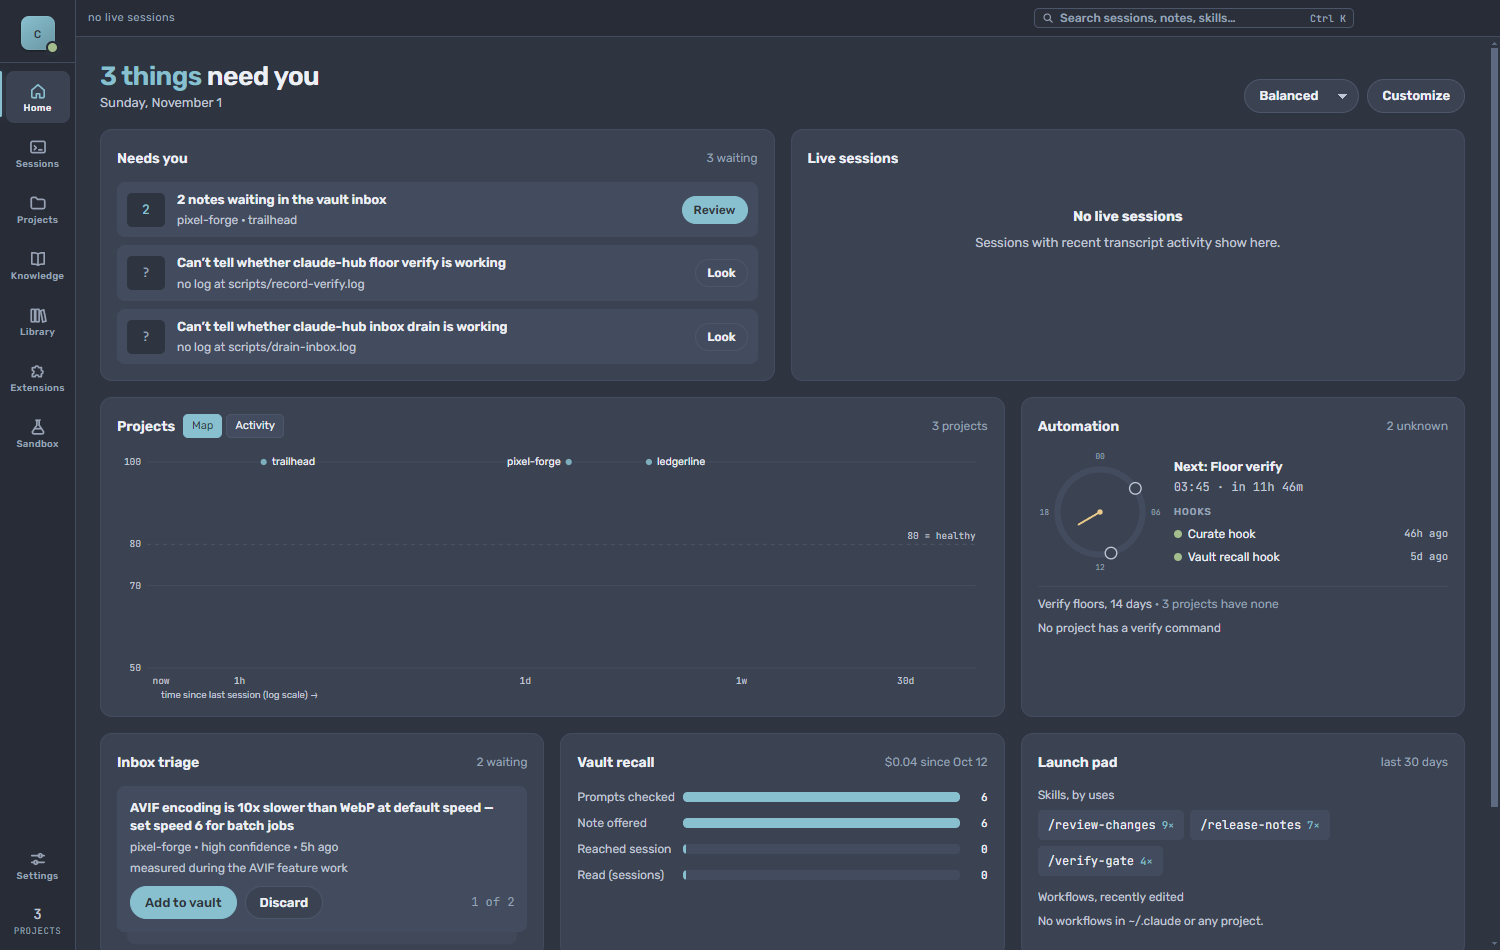
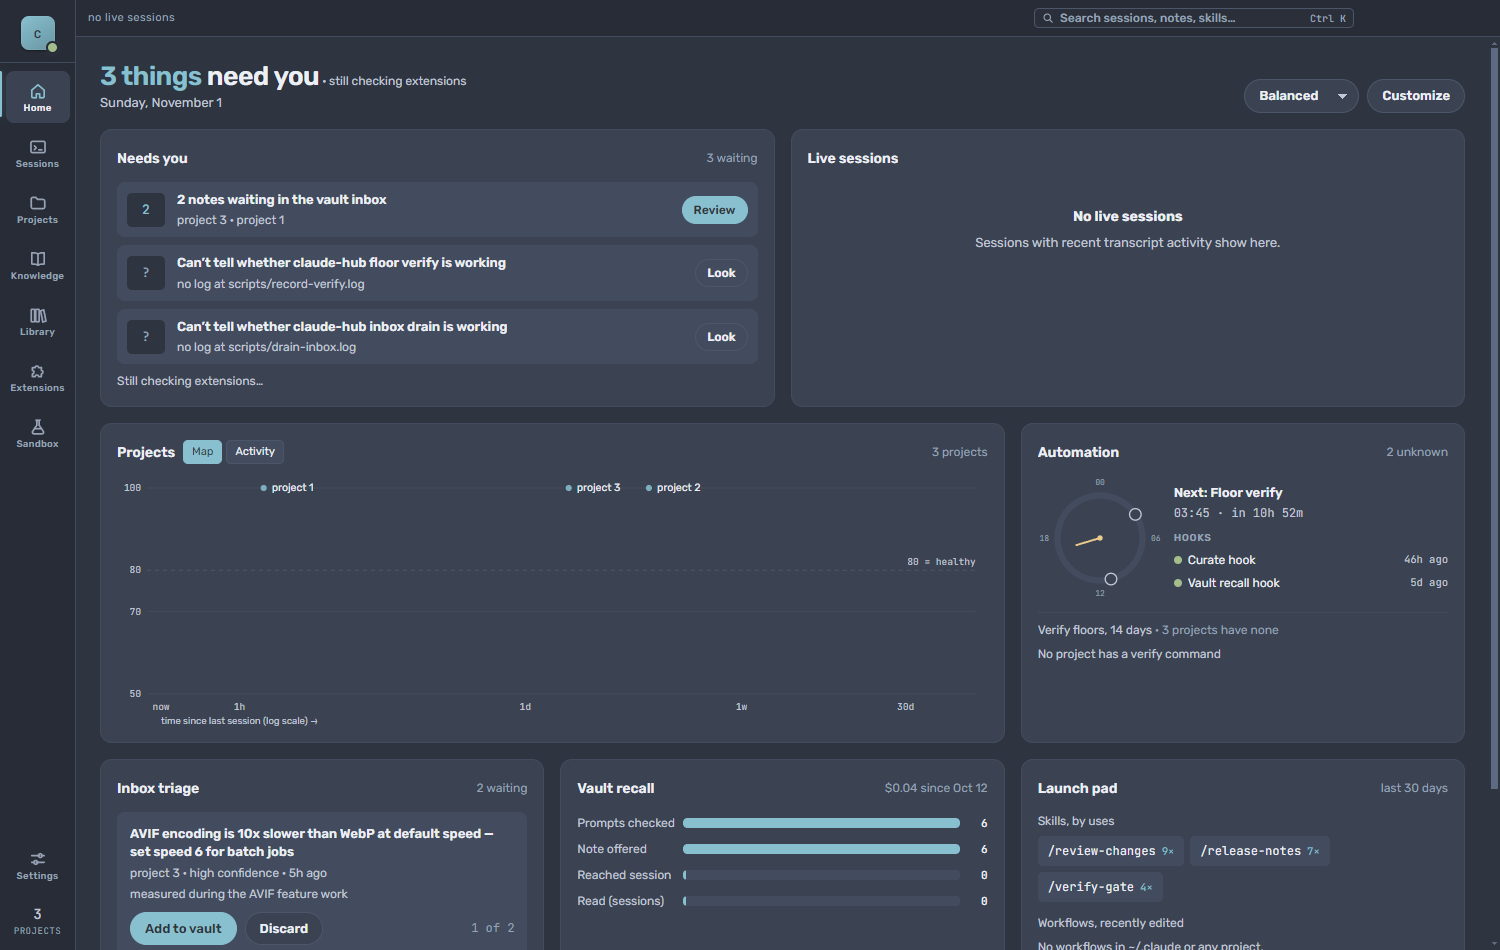
README: static loop diagram, live Desktop screenshot; vault and sandbox paths overridable everywhere

diff --git a/electron/extensions-core.test.ts b/electron/extensions-core.test.ts
@@ -22,8 +22,8 @@ const MCP_LIST = [
   'plugin:design:slack: https://mcp.slack.com/mcp (HTTP) - ! Needs authentication',
   'plugin:design:google calendar:  (HTTP) - - Not configured',
   'playwright: npx @playwright/mcp --browser chromium - ✔ Connected',
-  'desktop-control: C:\\Users\\P_cam\\mcp-servers\\desktop-control\\.venv\\Scripts\\python.exe C:\\Users\\P_cam\\server.py - ✔ Connected',
-  'ewm-config: C:\\Users\\P_cam\\mcp-servers\\ewm-config\\run-mcp.cmd  - ✔ Connected',
+  'desktop-control: C:\\Users\\J_doe\\mcp-servers\\desktop-control\\.venv\\Scripts\\python.exe C:\\Users\\J_doe\\server.py - ✔ Connected',
+  'ewm-config: C:\\Users\\J_doe\\mcp-servers\\ewm-config\\run-mcp.cmd  - ✔ Connected',
   'odd: node run.js --label "a - b" (stdio) - ✗ Failed to connect',
   'local-thing: .mcp.json server - ⏸ Pending approval',
   'weird: x - ? Sleeping',
@@ -50,7 +50,7 @@ test('parseMcpList reads every line shape, splitting on the right ` - `', () => 
   })
   assert.equal(by['playwright'].target, 'npx @playwright/mcp --browser chromium')
   assert.match(by['desktop-control'].target!, /^C:\\Users\\.*server\.py$/)
-  assert.equal(by['ewm-config'].target, 'C:\\Users\\P_cam\\mcp-servers\\ewm-config\\run-mcp.cmd')
+  assert.equal(by['ewm-config'].target, 'C:\\Users\\J_doe\\mcp-servers\\ewm-config\\run-mcp.cmd')
   assert.equal(by['odd'].target, 'node run.js --label "a - b"')
   assert.equal(by['odd'].status, 'failed')
   assert.equal(by['local-thing'].status, 'pending-approval')

diff --git a/electron/recall-core.test.ts b/electron/recall-core.test.ts
@@ -44,7 +44,7 @@ test('decideRecallAction spends only once a session has proven it will keep talk
 })
 
 test('isEphemeralSessionCwd skips temp worktree arms but never real project dirs', () => {
-  const tmp = 'C:\\Users\\P_cam\\AppData\\Local\\Temp'
+  const tmp = 'C:\\Users\\J_doe\\AppData\\Local\\Temp'
   // A parallel-build worktree arm: measured 18 attempts, 0 ever delivered.
   assert.equal(isEphemeralSessionCwd(`${tmp}\\claude\\proj\\scratchpad\\ws-arm-a`, tmp), true)
   assert.equal(isEphemeralSessionCwd(tmp, tmp), true)
@@ -54,9 +54,9 @@ test('isEphemeralSessionCwd skips temp worktree arms but never real project dirs
   assert.equal(isEphemeralSessionCwd('C:\\projects\\claude-hub-sandbox\\Grade chug harness', tmp), false)
   assert.equal(isEphemeralSessionCwd('C:\\projects\\claude-hub', tmp), false)
   // Prefix-of-a-sibling must not count as "inside".
-  assert.equal(isEphemeralSessionCwd('C:\\Users\\P_cam\\AppData\\Local\\TempExtra\\x', tmp), false)
+  assert.equal(isEphemeralSessionCwd('C:\\Users\\J_doe\\AppData\\Local\\TempExtra\\x', tmp), false)
   // Slash form and trailing separators are the same path.
-  assert.equal(isEphemeralSessionCwd('c:/users/p_cam/appdata/local/temp/x', `${tmp}\\`), true)
+  assert.equal(isEphemeralSessionCwd('c:/users/j_doe/appdata/local/temp/x', `${tmp}\\`), true)
   assert.equal(isEphemeralSessionCwd('', tmp), false)
 })
 

diff --git a/electron/sandbox.ts b/electron/sandbox.ts
@@ -8,10 +8,10 @@ import { headlessEnv } from './call-claude-core.ts'
 import { findSessionFiles, isHeadlessSessionCached, parseTranscriptFile } from './sessions.ts'
 import { queueVaultCandidate } from './vault-write-core.ts'
 import { VAULT_PATH } from './vault-core.ts'
+import { SANDBOX_PATH } from './registry.ts'
 import { endJob, findJobByPath, setJobKiller, setJobPhase, startJob, wasCancelled } from './sandbox-jobs.ts'
 import type { DraftLearningsResult, ExperimentEntry, QueueToInboxResult } from '../shared/ipc-types'
 
-const SANDBOX_PATH = 'C:\\projects\\claude-hub-sandbox'
 const VAULT_INDEX_PATH = path.join(VAULT_PATH, 'index.md')
 
 // Sync, cheap enumeration of experiment folders — kept synchronous because

diff --git a/electron/desktop-outside.ts b/electron/desktop-outside.ts
@@ -22,7 +22,10 @@ export function claudeHome(): string {
   return process.env.CLAUDE_HUB_CLAUDE_HOME ?? path.join(os.homedir(), '.claude')
 }
 
-export const claudeSessionsDir = () => path.join(claudeHome(), 'sessions')
+// CLAUDE_HUB_SESSIONS_DIR moves only the per-process records: a demo
+// screenshot points it at an empty folder so the machine's other running
+// sessions stay off the picture, while transcripts are still found.
+export const claudeSessionsDir = () => process.env.CLAUDE_HUB_SESSIONS_DIR ?? path.join(claudeHome(), 'sessions')
 export const claudeProjectsDir = () => path.join(claudeHome(), 'projects')
 
 const UUID_RE = /^[0-9a-f]{8}-[0-9a-f]{4}-[0-9a-f]{4}-[0-9a-f]{4}-[0-9a-f]{12}$/i

diff --git a/electron/status.test.ts b/electron/status.test.ts
@@ -16,7 +16,7 @@ fs.writeFileSync(path.join(process.env.APP_ROOT, 'registry.json'), '[]')
 // silently reports zero sessions.
 test('sanitize maps drive colon, slashes, spaces and underscores to dashes', () => {
   assert.equal(sanitize('C:\\projects\\claude-hub'), 'C--projects-claude-hub')
-  assert.equal(sanitize('C:\\Users\\P_cam\\Desktop\\claude projects\\bladesbanter'), 'C--Users-P-cam-Desktop-claude-projects-bladesbanter')
+  assert.equal(sanitize('C:\\Users\\J_doe\\Desktop\\claude projects\\bladesbanter'), 'C--Users-J-doe-Desktop-claude-projects-bladesbanter')
 })
 
 // The regression: a dot must collapse too. Real on-disk dir for

diff --git a/electron/status.ts b/electron/status.ts
@@ -13,7 +13,7 @@ const execFileAsync = promisify(execFile)
 
 // A session dirname is derived by replacing `:`, `\`, `/`, `_`, and spaces
 // with `-`, preserving case as-typed. (The plan's original rule missed the
-// underscore case — confirmed against the real `P_cam` -> `P-cam` mapping
+// underscore case — confirmed against the real `J_doe` -> `J-doe` mapping
 // in `~/.claude/projects/` while building this module; see the plan's
 // Architecture decisions section for the corrected rule.) The same project
 // opened from PowerShell vs Git Bash also produces different-case dirnames,

diff --git a/electron/registry.ts b/electron/registry.ts
@@ -7,7 +7,9 @@ import type { RegistryEntry } from '../shared/ipc-types'
 function registryPath(): string {
   return path.join(process.env.APP_ROOT!, 'registry.json')
 }
-const SANDBOX_PATH = 'C:\\projects\\claude-hub-sandbox'
+// The sandbox projects folder; CLAUDE_HUB_SANDBOX overrides it, as
+// CLAUDE_HUB_VAULT does the vault (vault-core.ts).
+export const SANDBOX_PATH = process.env.CLAUDE_HUB_SANDBOX ?? 'C:\\projects\\claude-hub-sandbox'
 
 function ensureSandbox(): void {
   if (!fs.existsSync(SANDBOX_PATH)) {

diff --git a/README.md b/README.md
@@ -2,8 +2,8 @@
 
 A desktop control room for [Claude Code](https://claude.com/claude-code). It indexes every project
 I run Claude Code in and gives me one place to see sessions, usage, project health and the
-background automation. It also runs a knowledge flywheel: lessons from finished sessions are
-captured into a shared vault, and offered back to new sessions that need them.
+background automation. It also carries lessons from one session to the next: what a finished
+session learned is captured into a shared vault and offered back to later sessions that need it.
 
 Electron + Vite + React + TypeScript. Built for my own Windows machine, single user. I'm publishing
 it as a worked example of building a tool around Claude Code, not as a supported product.
@@ -15,11 +15,12 @@ it as a worked example of building a tool around Claude Code, not as a supported
 
 ## What it does
 
-**Sessions.** Every Claude Code transcript across every registered project, searchable, with the
-conversation, tool calls and context use per session. The Desktop tab hosts live Claude Code
-terminals inside the app (node-pty + xterm) in a host process that outlives the app.
+**Sessions.** The Desktop tab runs live Claude Code terminals side by side inside the app
+(node-pty + xterm), in a host process that outlives the app, with each session's state (working,
+needs you, your turn) at a glance. The History tab searches every transcript across every
+registered project.
 
-![Session history](docs/screenshots/sessions.png)
+![Desktop: three live Claude Code sessions working in parallel](docs/screenshots/sessions.png)
 
 **Projects.** Git state, latest sessions, a CLAUDE.md health score (stale references, oversized
 context), a per-project verify floor (lint/typecheck/test, recorded daily), and launch actions.
@@ -39,28 +40,34 @@ review inbox, and a scorecard that measures whether recalled notes actually get 
 
 Also: a skills and workflows catalog, MCP server/plugin health and usage, a sandbox for throwaway
 experiments, a command palette, and a Global view that grades every hook and scheduled job on
-evidence of work (log recency, failures, unfinished runs) rather than on configuration.
+evidence of work (log recency, failures, unfinished runs) rather than on configuration, and flags
+any job whose model spend passes a weekly ceiling.
 
-## The knowledge flywheel
+## Learning from past sessions
 
-```mermaid
-flowchart LR
-  S[Claude Code session ends] -->|SessionEnd hook| C[curate: haiku triage,<br/>sonnet extraction]
-  C --> I[_inbox.md]
-  I -->|review in the app, or<br/>daily drain for high confidence| V[(vault)]
-  V -->|UserPromptSubmit hook| R[recall: haiku matches<br/>the task to note titles]
-  R -->|up to 3 offers injected| N[a later session]
-```
+Claude Code sessions don't remember each other. A gotcha one session worked out, like a library
+quirk or a Windows path problem, gets rediscovered from scratch in the next. claude-hub closes
+that loop:
 
-Two global hooks run in every Claude Code session on the machine, not only in this repo:
+![A session ends, its lessons are drafted and reviewed, saved to the vault, and offered to a later session](docs/screenshots/learning-loop.svg)
 
-- **Curate** (`scripts/curate-session.mjs`) reads the finished transcript. A cheap triage decides
-  whether anything is worth keeping; only then does an extraction pass queue candidate notes.
-- **Recall** (`scripts/vault-recall.mjs`) matches the session's task against note titles in a
-  detached worker, so the prompt is never blocked, and injects the matches into a later turn.
+1. **Capture** ([`scripts/curate-session.mjs`](scripts/curate-session.mjs)). When a session ends, a
+   hook reads its transcript. A cheap model decides whether anything is worth keeping, and only
+   then does a stronger one draft a note. Drafts wait in an inbox for review; a daily job approves
+   only the high-confidence ones.
+2. **Recall** ([`scripts/vault-recall.mjs`](scripts/vault-recall.mjs)). When a session starts a
+   task, a background worker matches it against the vault's note titles and offers up to three
+   notes in a later turn, so the prompt is never held up.
 
-Every automation's model spend is rolled up per job, with a weekly ceiling that raises an
-attention item when a job starts costing more than it should.
+Both hooks are installed globally in Claude Code, so this works across every project, not only
+this one.
+
+It's measured, not assumed: the Knowledge view tracks whether offered notes actually get opened.
+Of the 11 offers that could still be checked against their transcripts, 5 were read and 4
+visibly changed what the session did next, for about $11 of model calls over 84 days. Matching on
+note bodies was tested too: a model shown every note's title and an excerpt of its text, for 19
+sessions that got no offer, found one real miss, and its title alone would have matched. So recall
+stays titles-only.
 
 ## How it's built
 
